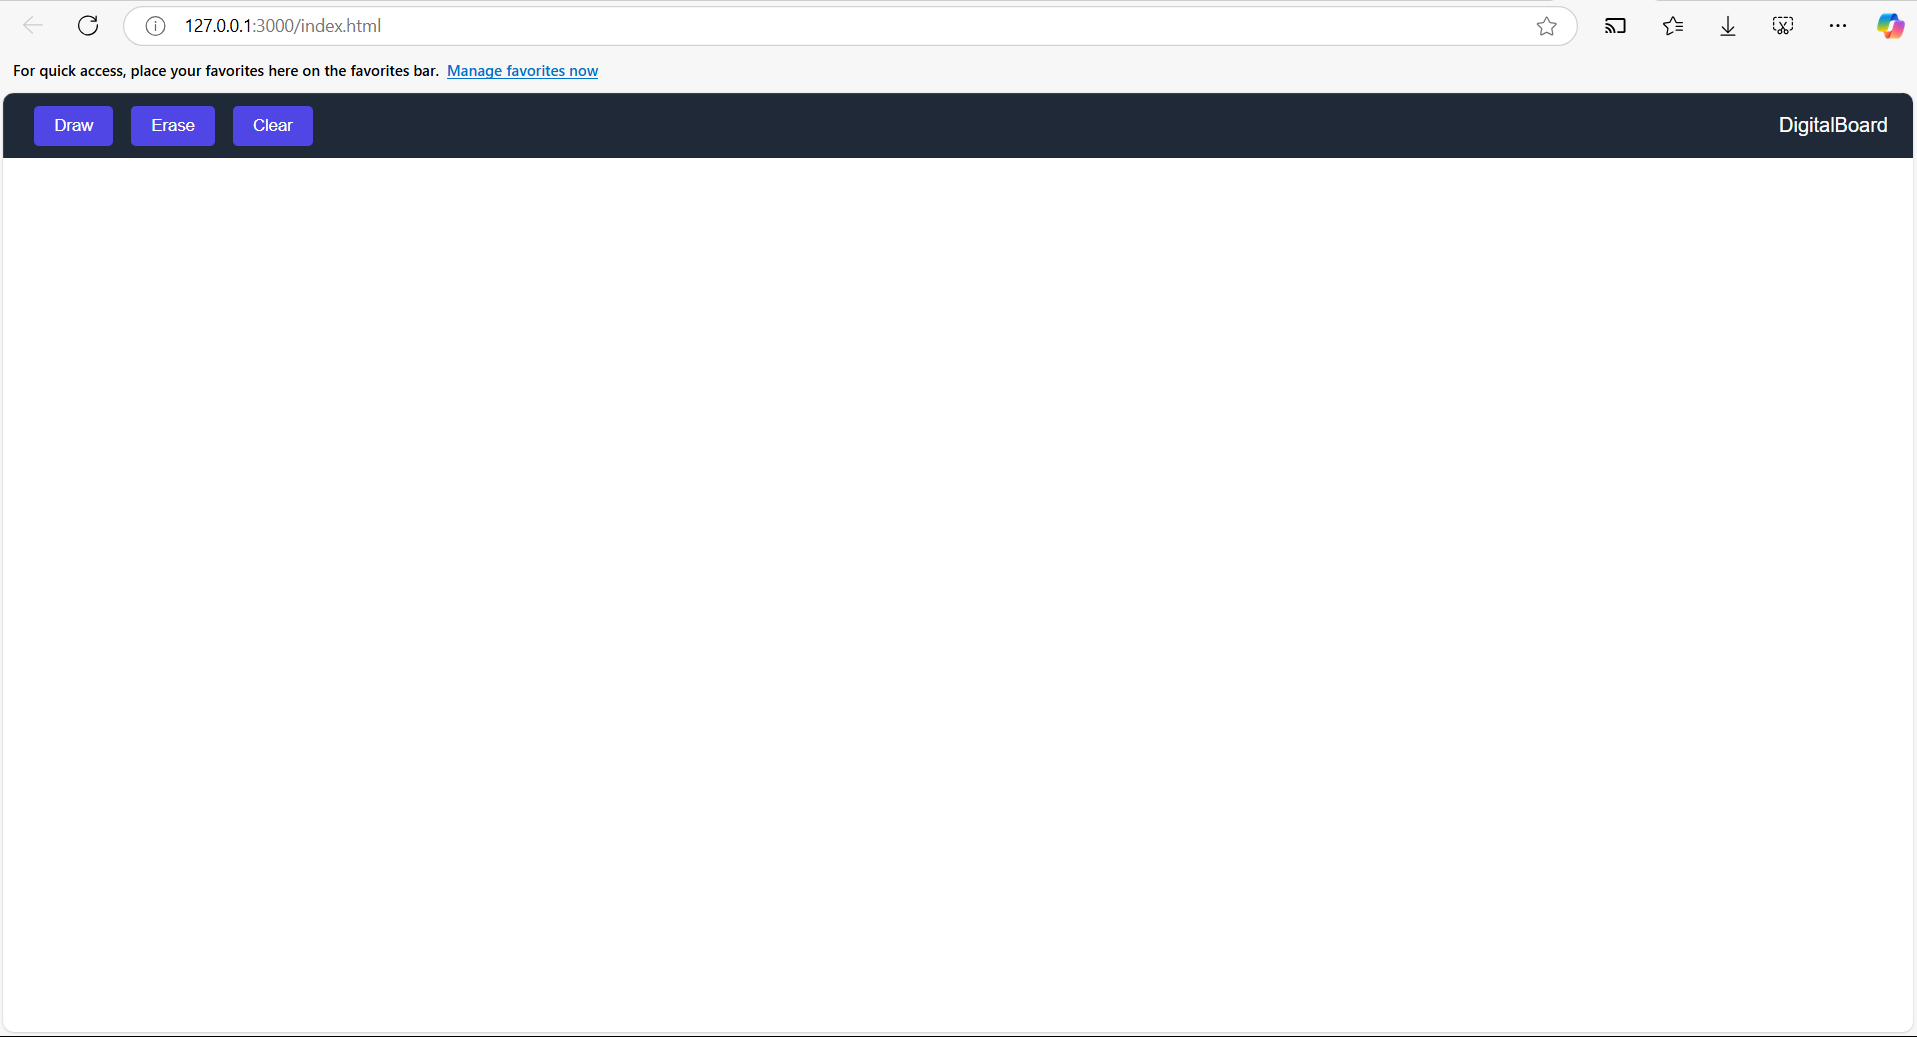
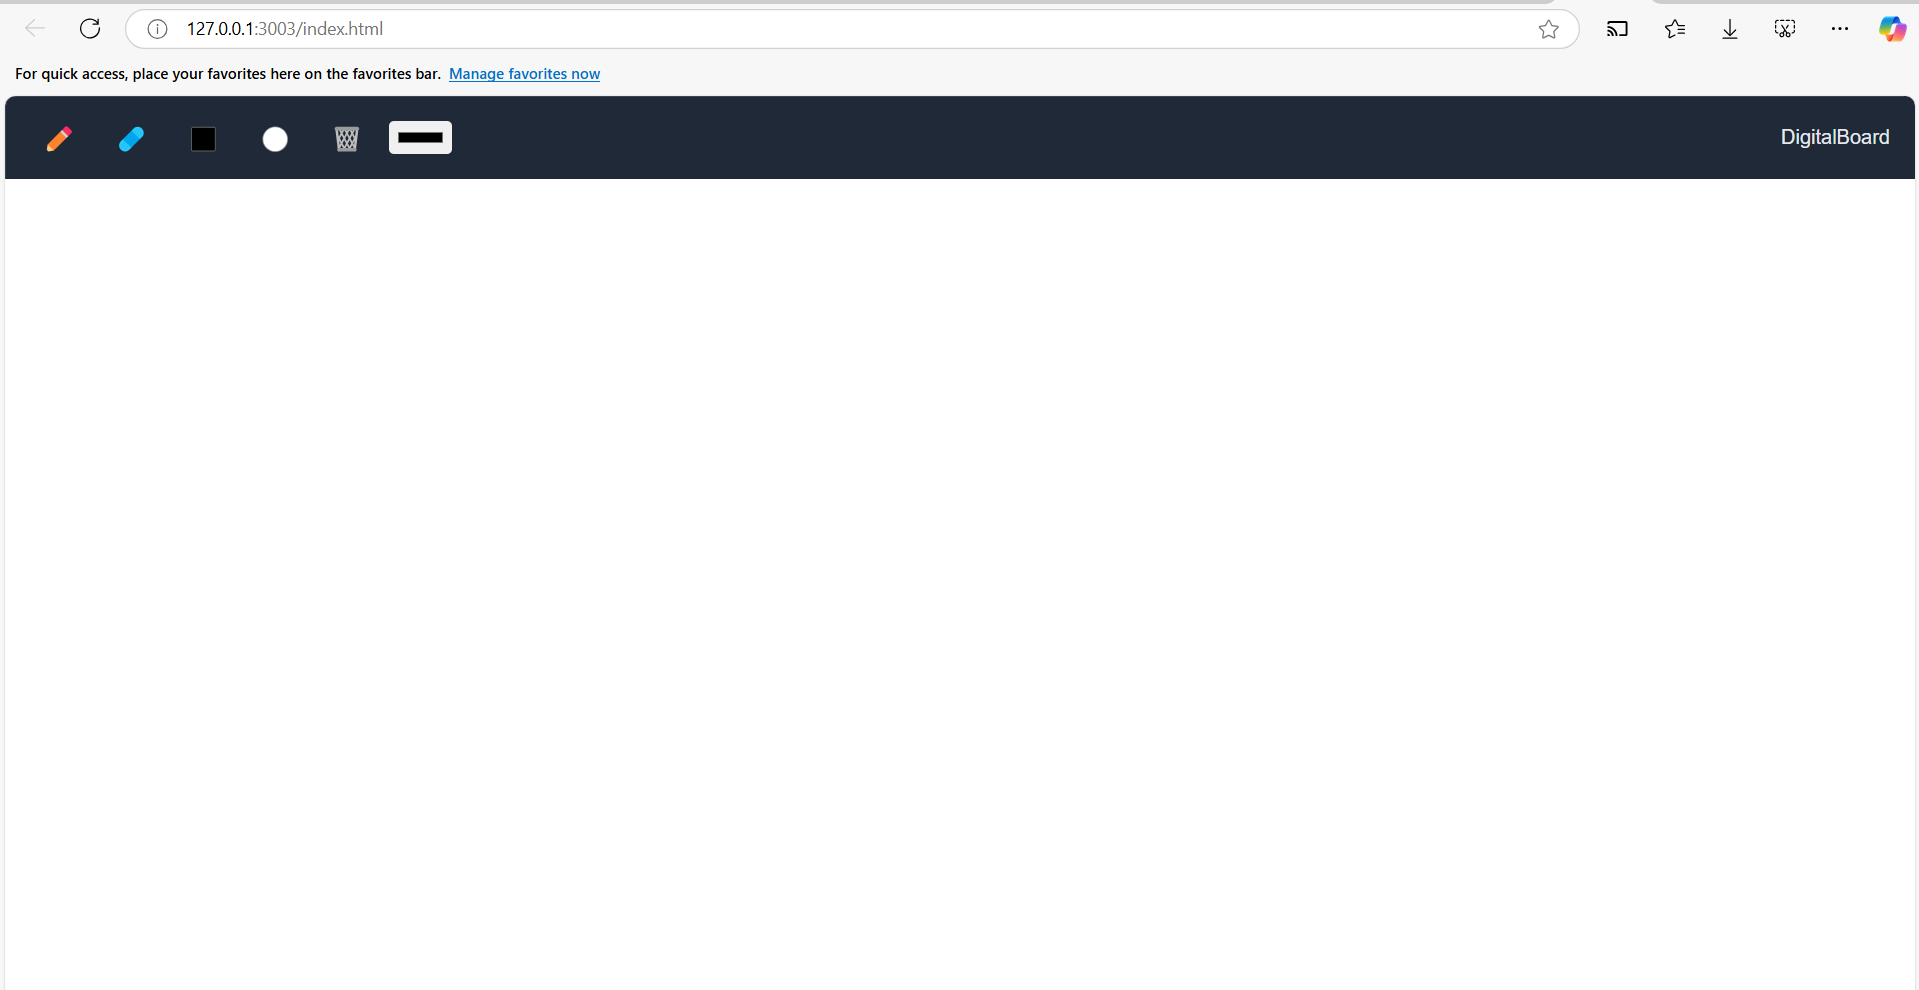
Added:More Tools and Improved Ui

Changed region(s): [[0.0, 0.0, 1.0, 0.1818]]

diff --git a/scripts.js b/scripts.js
@@ -1,63 +1,79 @@
  // Get references to the canvas and its context
  const canvas = document.getElementById('canvas');
  const ctx = canvas.getContext('2d');
+ const colorPicker = document.getElementById('color-picker');
 
  // Resize canvas to fill the screen
  canvas.width = window.innerWidth;
  canvas.height = window.innerHeight - document.getElementById('toolbar').offsetHeight;
+    let tool = 'draw'; // Current tool (draw, erase, rectangle, circle)
+    let drawing = false;
+    let startX = 0, startY = 0;
+    let color = '#000000';
 
- // Variables for drawing
- let drawing = false;
- let erasing = false;
- let prevX = 0;
- let prevY = 0;
+    // Update color
+    colorPicker.addEventListener('input', (e) => {
+      color = e.target.value;
+    });
 
- // Start drawing
- canvas.addEventListener('mousedown', (e) => {
-   drawing = true;
-   prevX = e.clientX;
-   prevY = e.clientY - canvas.offsetTop;
- });
+    // Event listeners for tools
+    document.getElementById('draw').addEventListener('click', () => (tool = 'draw'));
+    document.getElementById('erase').addEventListener('click', () => (tool = 'erase'));
+    document.getElementById('rectangle').addEventListener('click', () => (tool = 'rectangle'));
+    document.getElementById('circle').addEventListener('click', () => (tool = 'circle'));
+    document.getElementById('clear').addEventListener('click', () => ctx.clearRect(0, 0, canvas.width, canvas.height));
 
- // Draw or erase
- canvas.addEventListener('mousemove', (e) => {
-   if (!drawing) return;
-   const currX = e.clientX;
-   const currY = e.clientY - canvas.offsetTop;
+    // Drawing logic
+    canvas.addEventListener('mousedown', (e) => {
+      drawing = true;
+      startX = e.clientX;
+      startY = e.clientY - canvas.offsetTop;
 
-   ctx.strokeStyle = erasing ? 'white' : 'black';
-   ctx.lineWidth = erasing ? 20 : 2;
-   ctx.lineCap = 'round';
+      if (tool === 'erase') {
+        ctx.clearRect(startX - 10, startY - 10, 20, 20);
+      }
+    });
 
-   ctx.beginPath();
-   ctx.moveTo(prevX, prevY);
-   ctx.lineTo(currX, currY);
-   ctx.stroke();
+    canvas.addEventListener('mousemove', (e) => {
+      if (!drawing) return;
+      const x = e.clientX;
+      const y = e.clientY - canvas.offsetTop;
 
-   prevX = currX;
-   prevY = currY;
- });
+      if (tool === 'draw') {
+        ctx.strokeStyle = color;
+        ctx.lineWidth = 2;
+        ctx.lineCap = 'round';
+        ctx.beginPath();
+        ctx.moveTo(startX, startY);
+        ctx.lineTo(x, y);
+        ctx.stroke();
+        startX = x;
+        startY = y;
+      } else if (tool === 'erase') {
+        ctx.clearRect(x - 10, y - 10, 20, 20);
+      }
+    });
 
- // Stop drawing
- canvas.addEventListener('mouseup', () => {
-   drawing = false;
-   ctx.beginPath(); // Reset the path
- });
+    canvas.addEventListener('mouseup', (e) => {
+      if (!drawing) return;
+      drawing = false;
 
- // Stop drawing when leaving the canvas
- canvas.addEventListener('mouseleave', () => {
-   drawing = false;
- });
+      const x = e.clientX;
+      const y = e.clientY - canvas.offsetTop;
 
- // Buttons functionality
- document.getElementById('draw').addEventListener('click', () => {
-   erasing = false;
- });
+      if (tool === 'rectangle') {
+        const width = x - startX;
+        const height = y - startY;
+        ctx.fillStyle = color;
+        ctx.fillRect(startX, startY, width, height);
+      } else if (tool === 'circle') {
+        const radius = Math.sqrt(Math.pow(x - startX, 2) + Math.pow(y - startY, 2));
+        ctx.beginPath();
+        ctx.arc(startX, startY, radius, 0, 2 * Math.PI);
+        ctx.fillStyle = color;
+        ctx.fill();
+      }
+    });
 
- document.getElementById('erase').addEventListener('click', () => {
-   erasing = true;
- });
-
- document.getElementById('clear').addEventListener('click', () => {
-   ctx.clearRect(0, 0, canvas.width, canvas.height);
- });
+    // Reset drawing state when leaving the canvas
+    canvas.addEventListener('mouseleave', () => (drawing = false));

diff --git a/style.css b/style.css
@@ -8,27 +8,34 @@ body {
   }
   #toolbar {
 	display: flex;
-	justify-content: space-between;
 	align-items: center;
+	gap: 10px;
 	background: #1f2937;
 	color: white;
 	padding: 10px 20px;
+	box-shadow: 0 2px 5px rgba(0, 0, 0, 0.2);
+  }
+  #toolbar button {
+	background: none;
+	border: none;
+	cursor: pointer;
+	color: white;
+	font-size: 20px;
+	padding: 10px;
+	border-radius: 4px;
+	transition: background 0.2s;
+  }
+  #toolbar button:hover {
+	background: rgba(255, 255, 255, 0.2);
+  }
+
+  #toolbar input[type="color"] {
+	border: none;
+	padding: 5px;
+	border-radius: 4px;
   }
   #canvas {
 	flex: 1;
 	background: white;
 	cursor: crosshair;
   }
-  button {
-	padding: 8px 16px;
-	margin: 0 5px;
-	border: none;
-	border-radius: 4px;
-	background: #4f46e5;
-	color: white;
-	cursor: pointer;
-  }
-  button:hover {
-	background: #6366f1;
-  }
-  

diff --git a/index.html b/index.html
@@ -9,12 +9,14 @@
 <body>
   <!-- Toolbar -->
   <div id="toolbar">
-    <div>
-      <button id="draw">Draw</button>
-      <button id="erase">Erase</button>
-      <button id="clear">Clear</button>
-    </div>
-    <div>DigitalBoard</div>
+
+      <button id="draw" title="Draw Mode (Freehand)">✏</button>
+      <button id="erase" title="Erase Mode">🩹</button>
+      <button id="rectangle" title="Draw Rectangle">⬛</button>
+      <button id="circle" title="Draw Circle">⚪</button>
+      <button id="clear" title="Clear Canvas">🗑</button>
+      <input id="color-picker" type="color" title="Pick a Color" />
+      <span style="flex-grow: 1; text-align: right; color: #e5e7eb;">DigitalBoard</span>
   </div>
 
   <!-- Canvas -->

diff --git a/README.md b/README.md
@@ -28,11 +28,14 @@ Open the *index.html* file in any modern web browser to start using the applicat
 
 - **Draw Mode**: Click the pencil icon to start drawing freehand lines.
 - **Erase Mode**: Click the eraser icon to remove parts of the drawing.
+- **Shape Drawing**: Click on the rectangle or circle icon to start drawing 
+- **shapes**, which will appear while being dragged.
+- **Color Picker**: Select a color using the color input field to customize your drawings.
 - **Clear Canvas**: Click the trash icon to erase the entire canvas and start fresh.
 
 
 # Screenshots:
-![alt text](image.png)
+![alt text](image-1.png)
 
 
 License:
